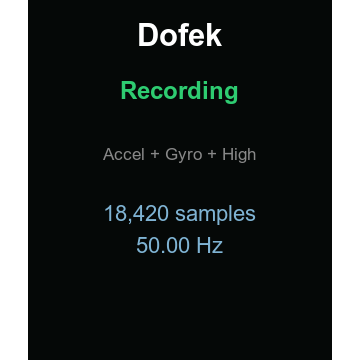
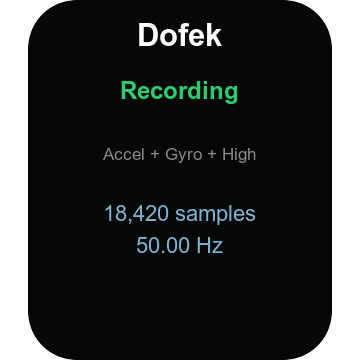
fix(zepp): address store review rejection

diff --git a/packages/zepp/setting/index.test.ts b/packages/zepp/setting/index.test.ts
@@ -16,8 +16,29 @@ interface ButtonConfiguration {
   onClick(): void;
 }
 
+interface TextInputConfiguration {
+  label?: string;
+  title?: string;
+}
+
+interface ImageConfiguration {
+  src: string;
+  alt?: string;
+  width?: number;
+  height?: number;
+}
+
+interface ToggleConfiguration {
+  label: string;
+  value?: boolean;
+  checked?: boolean;
+}
+
 let configuration: SettingConfiguration | undefined;
 const buttonConfigurations: ButtonConfiguration[] = [];
+const imageConfigurations: ImageConfiguration[] = [];
+const textInputConfigurations: TextInputConfiguration[] = [];
+const toggleConfigurations: ToggleConfiguration[] = [];
 const renderedViews: unknown[] = [];
 
 function isSettingConfiguration(value: unknown): value is SettingConfiguration {
@@ -45,13 +66,26 @@ beforeAll(async () => {
     buttonConfigurations.push(value);
     return value;
   });
-  vi.stubGlobal("TextInput", (value: unknown) => value);
-  vi.stubGlobal("ToggleSwitch", (value: unknown) => value);
+  vi.stubGlobal("TextInput", (value: TextInputConfiguration) => {
+    textInputConfigurations.push(value);
+    return value;
+  });
+  vi.stubGlobal("Image", (value: ImageConfiguration) => {
+    imageConfigurations.push(value);
+    return value;
+  });
+  vi.stubGlobal("Toggle", (value: ToggleConfiguration) => {
+    toggleConfigurations.push(value);
+    return value;
+  });
   await import("./index.ts");
 });
 
 beforeEach(() => {
   buttonConfigurations.length = 0;
+  imageConfigurations.length = 0;
+  textInputConfigurations.length = 0;
+  toggleConfigurations.length = 0;
   renderedViews.length = 0;
 });
 
@@ -72,6 +106,49 @@ function button(label: string): ButtonConfiguration {
 }
 
 describe("normal Zepp app settings", () => {
+  it("builds with the documented Zepp Settings component globals", () => {
+    expect(() => buildWith({})).not.toThrow();
+  });
+
+  it("passes the gyroscope state through the documented Toggle value property", () => {
+    buildWith({ [STORAGE_KEYS.PREF_ENABLE_GYRO]: "true" });
+
+    expect(toggleConfigurations).toHaveLength(1);
+    expect(toggleConfigurations[0]).toEqual(
+      expect.objectContaining({ label: "Include gyroscope", value: true }),
+    );
+    expect(toggleConfigurations[0]?.checked).toBeUndefined();
+  });
+
+  it("uses the documented label property for text inputs", () => {
+    buildWith({});
+
+    expect(textInputConfigurations.map(({ label }) => label)).toEqual([
+      "Sample rate mode (0=LOW, 1=NORMAL, 2=HIGH)",
+      "Dofek Server URL",
+      "Dofek Email",
+      "Dofek Password",
+    ]);
+    expect(textInputConfigurations.every(({ title }) => title === undefined)).toBe(true);
+  });
+
+  it("renders pairing QR codes with the Zepp Image component", () => {
+    expect(() =>
+      buildWith({
+        [STORAGE_KEYS.PAIRING_QR_IMAGE_URL]: "https://dofek.example/pairing.svg",
+      }),
+    ).not.toThrow();
+    expect(imageConfigurations).toEqual([
+      {
+        src: "https://dofek.example/pairing.svg",
+        alt: "Dofek pairing QR code",
+        width: 220,
+        height: 220,
+        style: { margin: "0 auto 1em", display: "block" },
+      },
+    ]);
+  });
+
   it("shows pairing, authoritative status, and connection management controls", () => {
     buildWith({
       [STORAGE_KEYS.DOFEK_CONNECTION_STATUS]: JSON.stringify({

diff --git a/packages/zepp/setting/index.ts b/packages/zepp/setting/index.ts
@@ -28,13 +28,20 @@ function toggle(
   storage.setItem(key, current === "1" ? "0" : "1");
 }
 
-function buildPairingQrImage(sourceUrl: string): HTMLImageElement {
-  const image = new Image(220, 220);
-  image.src = sourceUrl;
-  image.alt = "Dofek pairing QR code";
-  image.style.margin = "0 auto 1em";
-  image.style.display = "block";
-  return image;
+function buildPairingQrImage(sourceUrl: string): unknown {
+  const renderImage: unknown = Reflect.get(globalThis, "Image");
+  if (typeof renderImage !== "function") {
+    throw new Error("Zepp Settings Image component is unavailable");
+  }
+  return Reflect.apply(renderImage, undefined, [
+    {
+      src: sourceUrl,
+      alt: "Dofek pairing QR code",
+      width: 220,
+      height: 220,
+      style: { margin: "0 auto 1em", display: "block" },
+    },
+  ]);
 }
 
 const PG_STATE: {
@@ -119,7 +126,7 @@ AppSettingsPage({
         "Keep the Dofek watch app open when starting or stopping from Settings.",
       ]),
       TextInput({
-        title: "Sample rate mode (0=LOW, 1=NORMAL, 2=HIGH)",
+        label: "Sample rate mode (0=LOW, 1=NORMAL, 2=HIGH)",
         bold: false,
         value: String(this.state.freqModeIndex),
         onChange: (value: string) => {
@@ -133,9 +140,9 @@ AppSettingsPage({
       View({ style: { margin: "0 1em", fontSize: "1rem", color: "#888" } }, [
         `Requested: ${FREQ_MODE_LABELS[this.state.freqModeIndex]}. Docs do not publish Hz per mode; the watch records the delivered rate.`,
       ]),
-      ToggleSwitch({
+      Toggle({
         label: "Include gyroscope",
-        checked: this.state.enableGyro,
+        value: this.state.enableGyro,
         onChange: (checked: boolean) => {
           this.state.enableGyro = checked;
           props.settingsStorage.setItem(STORAGE_KEYS.PREF_ENABLE_GYRO, checked ? "true" : "false");
@@ -187,7 +194,7 @@ AppSettingsPage({
       ),
 
       TextInput({
-        title: "Dofek Server URL",
+        label: "Dofek Server URL",
         bold: false,
         value: this.state.dofekServerUrl,
         onChange: (value: string) => {
@@ -222,7 +229,7 @@ AppSettingsPage({
         : View({}, []),
 
       TextInput({
-        title: "Dofek Email",
+        label: "Dofek Email",
         bold: false,
         value: this.state.dofekEmail,
         onChange: (value: string) => {
@@ -232,7 +239,7 @@ AppSettingsPage({
       }),
 
       TextInput({
-        title: "Dofek Password",
+        label: "Dofek Password",
         bold: false,
         placeholder: "Enter your Dofek password",
         onChange: (value: string) => {

diff --git a/packages/zepp/workout-extension/setting/index.test.ts b/packages/zepp/workout-extension/setting/index.test.ts
@@ -23,7 +23,7 @@ interface SettingConfiguration {
 }
 
 interface InputConfiguration {
-  title: string;
+  label: string;
   value?: string;
   placeholder?: string;
   onChange(value: string): void;
@@ -36,28 +36,25 @@ interface ButtonConfiguration {
   onClick(): void;
 }
 
-class FakeImage {
-  readonly height: number;
-  readonly width: number;
-  src = "";
-  alt = "";
-  style: Record<string, string> = {};
-
-  constructor(width: number, height: number) {
-    this.width = width;
-    this.height = height;
-    createdImages.push(this);
-  }
+interface ImageConfiguration {
+  src: string;
+  alt?: string;
+  width?: number;
+  height?: number;
+  style?: Record<string, string>;
 }
 
 let configuration: SettingConfiguration | undefined;
 const inputConfigurations: InputConfiguration[] = [];
 const buttonConfigurations: ButtonConfiguration[] = [];
 const viewConfigurations: Array<{ style: Record<string, unknown>; children: unknown[] }> = [];
-const createdImages: FakeImage[] = [];
+const createdImages: ImageConfiguration[] = [];
 
 beforeAll(async () => {
-  vi.stubGlobal("Image", FakeImage);
+  vi.stubGlobal("Image", (value: ImageConfiguration) => {
+    createdImages.push(value);
+    return value;
+  });
   vi.stubGlobal("AppSettingsPage", (value: SettingConfiguration) => {
     configuration = value;
   });
@@ -132,15 +129,15 @@ describe("workout extension settings", () => {
     });
     expect(inputConfigurations).toHaveLength(3);
     expect(inputConfigurations[0]).toMatchObject({
-      title: "Dofek Server URL",
+      label: "Dofek Server URL",
       value: "https://dofek.example.test",
     });
     expect(inputConfigurations[1]).toMatchObject({
-      title: "Dofek Email",
+      label: "Dofek Email",
       value: "athlete@example.test",
     });
     expect(inputConfigurations[2]).toMatchObject({
-      title: "Dofek Password",
+      label: "Dofek Password",
       placeholder: "Enter your Dofek password",
     });
     expect(buttonConfigurations).toHaveLength(4);
@@ -179,6 +176,7 @@ describe("workout extension settings", () => {
         alt: "Dofek Workout pairing QR code",
         width: 220,
         height: 220,
+        style: { margin: "0 auto 1em", display: "block" },
       }),
     );
   });

diff --git a/packages/zepp/workout-extension/setting/index.ts b/packages/zepp/workout-extension/setting/index.ts
@@ -25,13 +25,20 @@ function toggle(
   storage.setItem(key, storage.getItem(key) === "1" ? "0" : "1");
 }
 
-function buildPairingQrImage(sourceUrl: string): HTMLImageElement {
-  const image = new Image(220, 220);
-  image.src = sourceUrl;
-  image.alt = "Dofek Workout pairing QR code";
-  image.style.margin = "0 auto 1em";
-  image.style.display = "block";
-  return image;
+function buildPairingQrImage(sourceUrl: string): unknown {
+  const renderImage: unknown = Reflect.get(globalThis, "Image");
+  if (typeof renderImage !== "function") {
+    throw new Error("Zepp Settings Image component is unavailable");
+  }
+  return Reflect.apply(renderImage, undefined, [
+    {
+      src: sourceUrl,
+      alt: "Dofek Workout pairing QR code",
+      width: 220,
+      height: 220,
+      style: { margin: "0 auto 1em", display: "block" },
+    },
+  ]);
 }
 
 interface WorkoutSettingsState {
@@ -90,7 +97,7 @@ AppSettingsPage({
         "Dofek Workout Sync",
       ]),
       TextInput({
-        title: "Dofek Server URL",
+        label: "Dofek Server URL",
         value: this.state.serverUrl,
         onChange: (value: string) => {
           this.state.serverUrl = value;
@@ -120,7 +127,7 @@ AppSettingsPage({
         ? buildPairingQrImage(this.state.pairingQrImageUrl)
         : View({}, []),
       TextInput({
-        title: "Dofek Email",
+        label: "Dofek Email",
         value: this.state.email,
         onChange: (value: string) => {
           this.state.email = value;
@@ -128,7 +135,7 @@ AppSettingsPage({
         },
       }),
       TextInput({
-        title: "Dofek Password",
+        label: "Dofek Password",
         placeholder: "Enter your Dofek password",
         onChange: (value: string) => {
           this.state.password = value;

diff --git a/packages/zepp/src/env.d.ts b/packages/zepp/src/env.d.ts
@@ -307,5 +307,5 @@ declare const settings: {
 declare function View(style: Record<string, unknown>, children: unknown[]): unknown;
 declare function Button(options: Record<string, unknown>): unknown;
 declare function TextInput(options: Record<string, unknown>): unknown;
-declare function ToggleSwitch(options: Record<string, unknown>): unknown;
+declare function Toggle(options: Record<string, unknown>): unknown;
 declare const DOFEK_COMPANION_CONNECTION_TYPE: "zepp-main" | "zepp-workout";

diff --git a/docs/production-incident-baseline.md b/docs/production-incident-baseline.md
@@ -23366,3 +23366,39 @@ Drizzle schema and runtime Zod schemas. Findings and remediations:
   session nor a local `EXPO_PUBLIC_SENTRY_DSN`, which the mobile config requires.
 - **Remaining risk / follow-up:** Confirm the fresh Metro bundle and the
   remaining hosted checks pass, then remove no configuration guards.
+
+## 2026-09-03 — Zepp Store rejected the Dofek application
+
+- **Status:** Fixed in the workspace; Zepp Store resubmission is pending.
+- **Symptoms / impact:** Zepp rejected Dofek version `0.0.1787875865` because
+  its preview image did not meet the store specification and its Settings page
+  displayed no content. The rejection prevented the application from becoming
+  available through the Zepp Store.
+- **Evidence / root cause:** The rejected release tag called the nonexistent
+  `ToggleSwitch` Settings global during every initial render, so the page
+  stopped before returning its render tree. The same code used unsupported
+  `TextInput.title` properties and constructed QR images through the browser
+  DOM API instead of Zepp's render function. Zepp documents `Toggle` with a
+  `value` property, `TextInput.label`, and the `Image` render component in its
+  [Settings App UI API](https://docs.zepp.com/docs/reference/app-settings-api/ui/).
+  The normal-app rectangular previews also used sharp opaque display corners,
+  while Zepp requires the canvas outside the maximized device interface to be
+  transparent in its
+  [App Introduction Screenshots specification](https://docs.zepp.com/docs/distribute/#app-introduction-screenshots).
+- **Fix / mitigation:** Replaced the unsupported Settings calls in the normal
+  app and Workout Extension with Zepp's documented render functions and
+  properties, and updated their runtime-focused tests. Re-masked the six normal
+  app previews to the round and rounded-rectangular device silhouettes and
+  normalized them to 360×360 8-bit RGBA PNGs. Added a pre-submission checklist
+  to the Zepp package documentation. No retry, compatibility shim, or review
+  bypass was added.
+- **Validation:** The Settings regressions failed against the rejected runtime
+  calls and pass after the fix. The complete Zepp suite passes 23 files and 200
+  tests; package lint and TypeScript checks pass. Zeus built both versioned
+  `0.0.1788499448` ZAB archives, and `unzip -t` reports no archive errors. Pixel
+  inspection confirms all six normal-app previews are 360×360 8-bit RGBA PNGs
+  with transparent pixels outside the device display.
+- **Remaining risk / follow-up:** Install the normal-app ZAB on a physical Zepp
+  device, open the Settings page in the current Zepp mobile app, upload the new
+  device-shaped previews, and resubmit the application. Store approval remains
+  external to repository validation.

diff --git a/packages/zepp/README.md b/packages/zepp/README.md
@@ -162,6 +162,25 @@ CI versions each build as `0.0.<unix-timestamp>` with code `<timestamp>`, so ver
 2. Upload the normal watch app package to its existing listing in [console.zepp.com](https://console.zepp.com/).
 3. Upload the Workout Extension package to its independent Workout Extension listing and submit both upgrades for review. Zepp requires a separate app ID and submission for a Workout Extension ([Workout Extension quick start](https://docs.zepp.com/docs/guides/workout-extension/quick-start/)).
 
+### Store review checklist
+
+Before submitting either package:
+
+1. Open its Settings page in the Zepp mobile app and verify that the complete
+   page renders, including input labels and the pairing QR image. Settings Apps
+   render only the components documented by Zepp's
+   [Settings App UI API](https://docs.zepp.com/docs/reference/app-settings-api/ui/).
+2. Upload three or more device-appropriate images from `store-screenshots/`,
+   as Zepp recommends. Each preview must be a 360×360 PNG. Keep the canvas
+   outside the round or rounded-rectangular device display transparent, and
+   maximize the display within the canvas as required by Zepp's
+   [App Introduction Screenshots specification](https://docs.zepp.com/docs/distribute/#app-introduction-screenshots).
+3. Use a separate 240×240 store icon in the Console. Do not upload the 248×248
+   system icon from `assets/`; Zepp specifies different dimensions for
+   [system and store icons](https://docs.zepp.com/docs/guides/faq/icon-faq/#q3-what-sizes-do-icon-applications-need-to-output).
+4. Build both packages and upload the newly generated ZAB files rather than a
+   previous release artifact.
+
 ## Output file location
 
 After export, the Side Service stores the received file path in Settings Storage key `last_export_path`. On the phone this is under the mini program's Side Service data sandbox, typically:
